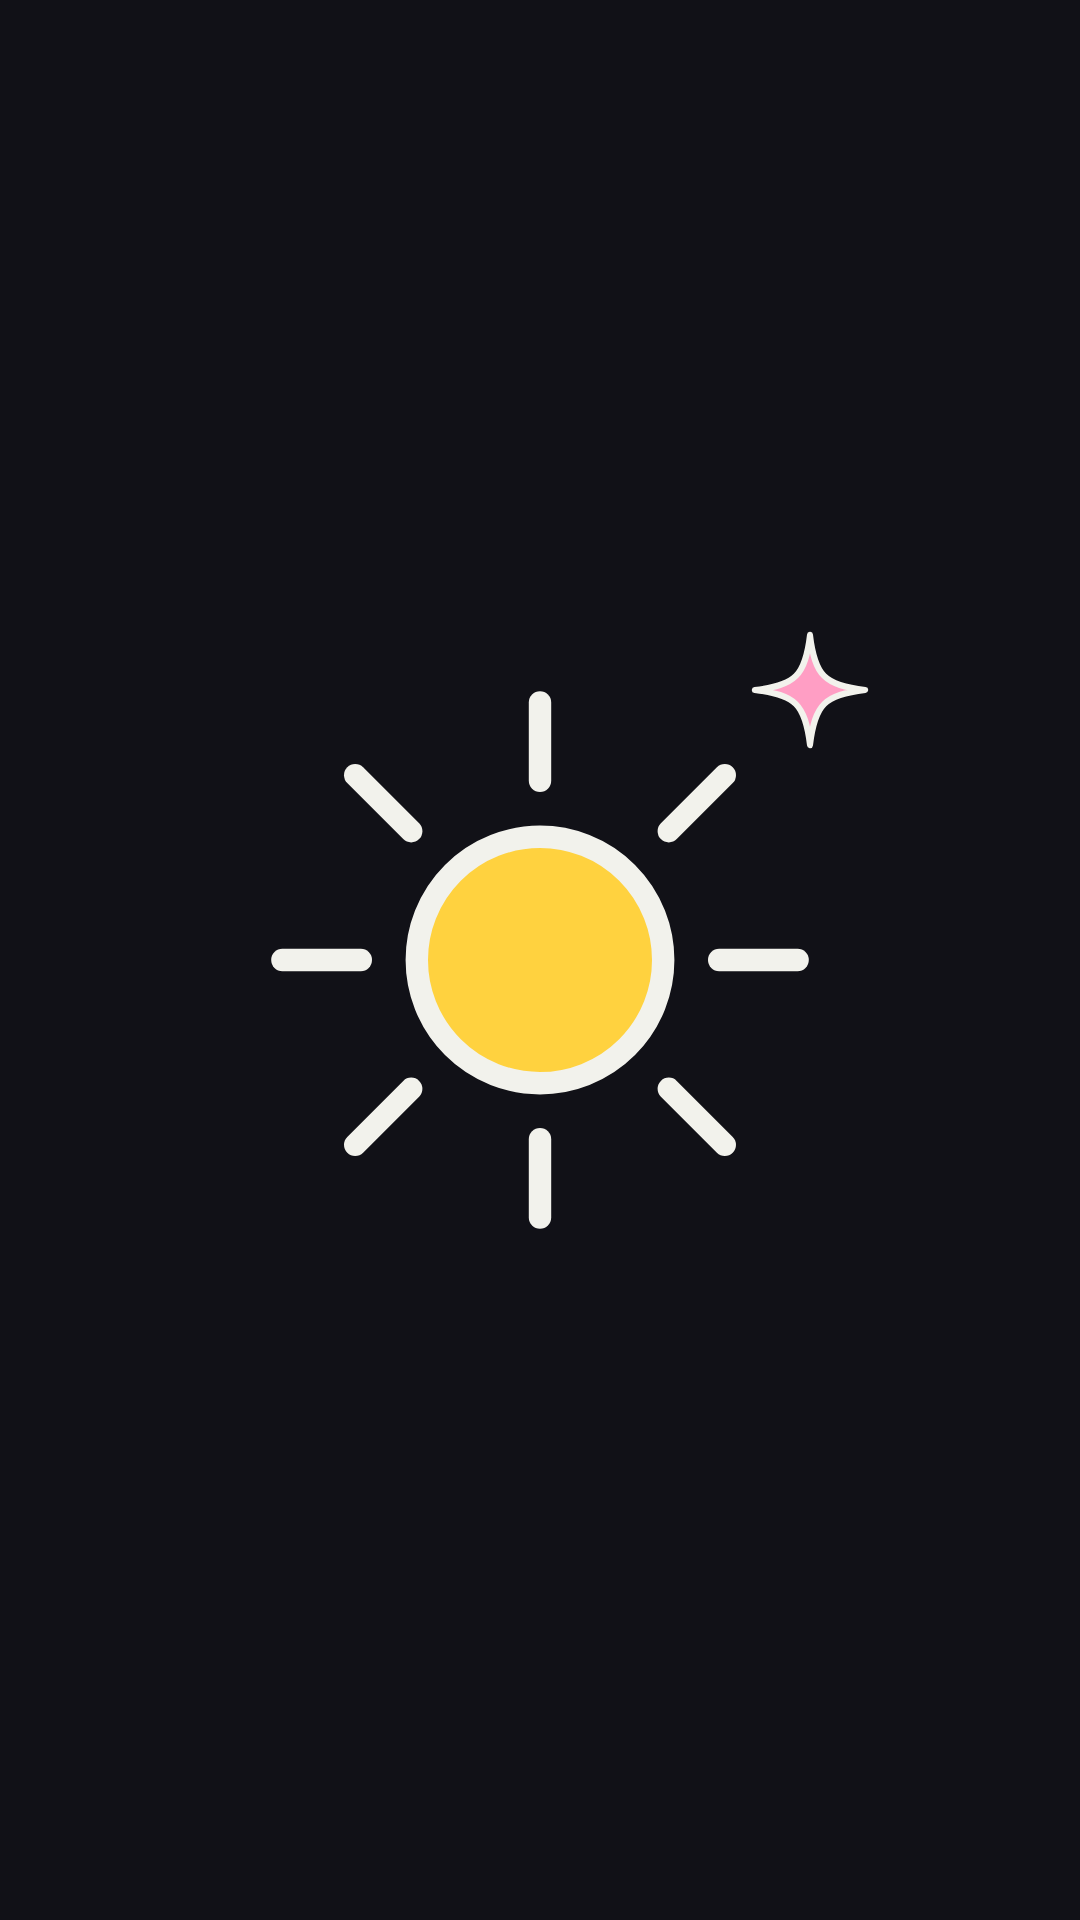
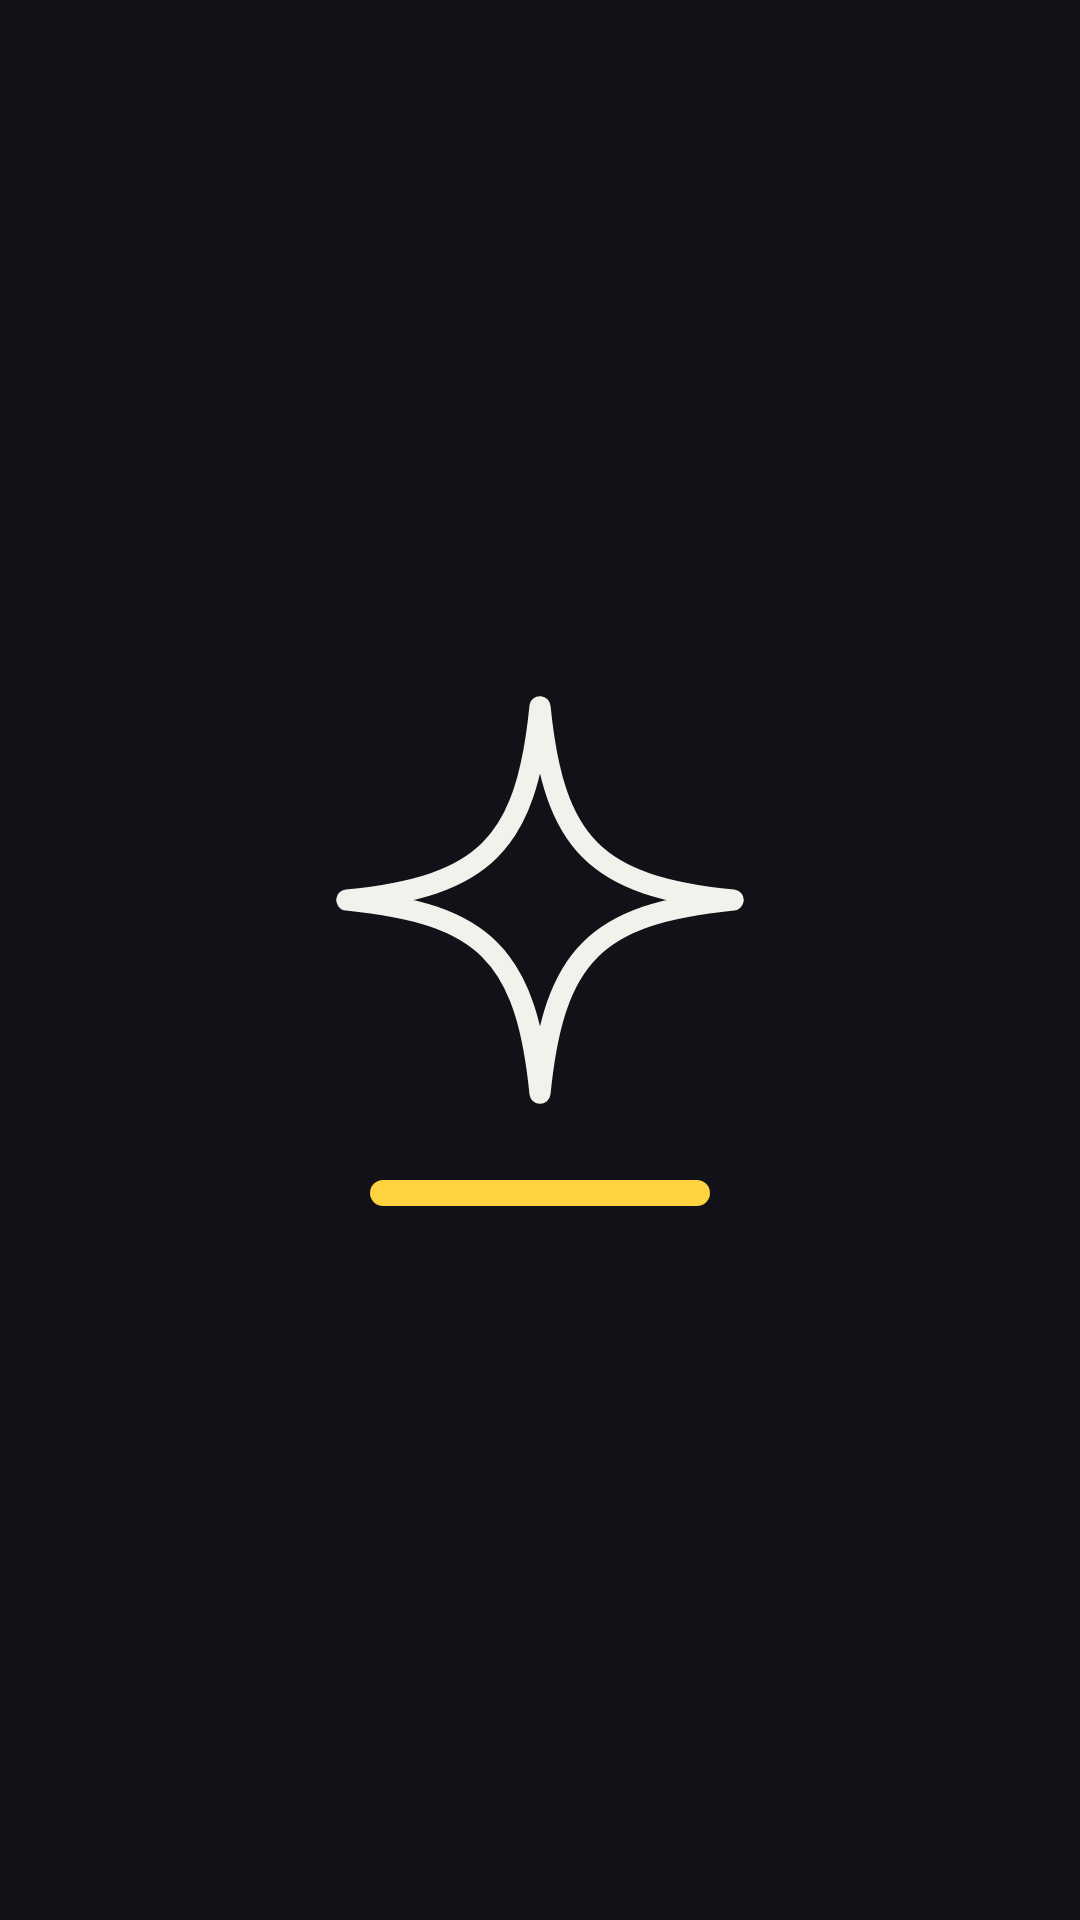
Capas dos destaques mais sóbrias: traço fino e o sublinhado do site
A Lorena achou a primeira versão infantil (adesivos coloridos com
estrelinha). Entre três caminhos, mostrados no tamanho real do perfil, ela
escolheu o desenho de traço fino e claro com o sublinhado amarelo do título
do site embaixo.

Claude-Session: https://claude.ai/code/session_01YXWX7oL9GGizcRcotajMLe

Changed region(s): [[0.2444, 0.375, 0.7333, 0.6562], [0.7028, 0.3125, 0.7944, 0.4062], [0.3056, 0.375, 0.3361, 0.4062]]

diff --git a/sites/instagram/gerar-capas.py b/sites/instagram/gerar-capas.py
@@ -6,64 +6,55 @@ Cada capa é um SVG de 1080x1920, o tamanho do story. Ao escolher a capa de um
 destaque, o Instagram recorta um círculo no meio da imagem com a largura dela,
 então o desenho tem de caber todo no círculo central: nada perto das bordas.
 
-As cores e o contorno claro são os do site com fundo preto (sites/lorenabraganca):
-mexer aqui sem mexer lá deixa o perfil e o site com duas caras.
+O estilo é o "B" que ela escolheu em 25/10, entre três: desenho de traço fino e
+claro, com o sublinhado amarelo do título do site embaixo. A primeira versão,
+de adesivos coloridos com contorno e estrelinha, ela achou infantil. Não volte
+a pôr cor dentro do desenho: o amarelo fica só no sublinhado.
+
+As cores são as do site com fundo preto (sites/lorenabraganca): mexer aqui
+sem mexer lá deixa o perfil e o site com duas caras.
 """
 from pathlib import Path
 
-FUNDO, CREME, SOL, ROSA, AZUL = "#111117", "#F2F2EC", "#FFD23F", "#FF9EC4", "#4F5BFF"
+FUNDO, CREME, SOL = "#111117", "#F2F2EC", "#FFD23F"
 PASTA = Path(__file__).parent / "capas"
 
 
-def estrela(x, y, tam, cor):
-    """A estrelinha de quatro pontas do site, o enfeite que amarra as capas."""
-    s = tam / 100
-    return (f'<path transform="translate({x - 50*s} {y - 50*s}) scale({s})" '
-            f'd="M50 4 C54 38 62 46 96 50 C62 54 54 62 50 96 C46 62 38 54 4 50 C38 46 46 38 50 4Z" '
-            f'fill="{cor}" stroke="{CREME}" stroke-width="5" stroke-linejoin="round"/>')
+def desenho(conteudo, escala=4.6, traco=4.6):
+    """Desenho feito numa grade de 100x100, ampliado e centrado um pouco acima
+    do meio, para o desenho e o sublinhado juntos ficarem no centro do círculo."""
+    return (f'<g transform="translate({540 - 50*escala} {900 - 50*escala}) scale({escala})" '
+            f'fill="none" stroke="{CREME}" stroke-width="{traco}" '
+            f'stroke-linecap="round" stroke-linejoin="round">{conteudo}</g>')
 
 
-def grande(conteudo, escala=5.4):
-    """Desenho feito numa grade de 100x100, ampliado e centrado em (540, 960)."""
-    return (f'<g transform="translate({540 - 50*escala} {960 - 50*escala}) scale({escala})" '
-            f'stroke="{CREME}" stroke-width="4" stroke-linejoin="round" stroke-linecap="round">{conteudo}</g>')
+# o marca-texto do "novidades" do site, largo como o desenho
+SUBLINHADO = f'<rect x="370" y="1180" width="340" height="26" rx="13" fill="{SOL}"/>'
 
 
-def capa(desenho, enfeite):
+def capa(conteudo):
     return (f'<svg xmlns="http://www.w3.org/2000/svg" viewBox="0 0 1080 1920" width="1080" height="1920">'
-            f'<rect width="1080" height="1920" fill="{FUNDO}"/>{desenho}{enfeite}</svg>\n')
+            f'<rect width="1080" height="1920" fill="{FUNDO}"/>{desenho(conteudo)}{SUBLINHADO}</svg>\n')
 
-
-RAIOS = [(50, 4, 50, 18), (50, 82, 50, 96), (4, 50, 18, 50), (82, 50, 96, 50),
-         (17, 17, 27, 27), (73, 73, 83, 83), (83, 17, 73, 27), (27, 73, 17, 83)]
 
 CAPAS = {
-    # coração rosa: o mesmo adesivo do site
-    "1-sobre-mim": capa(
-        grande(f'<path d="M50 88 C20 66 6 50 6 32 C6 18 17 8 30 8 C40 8 46 14 50 22 '
-               f'C54 14 60 8 70 8 C83 8 94 18 94 32 C94 50 80 66 50 88Z" fill="{ROSA}"/>'),
-        estrela(800, 700, 130, SOL)),
-    # o sol do site, que está ao lado da foto na página "em breve"
-    "2-novidades": capa(
-        grande('<g>' + ''.join(f'<line x1="{a}" y1="{b}" x2="{c}" y2="{d}"/>' for a, b, c, d in RAIOS)
-               + f'</g><circle cx="50" cy="50" r="22" fill="{SOL}"/>', 5.6),
-        estrela(810, 690, 120, ROSA)),
-    "3-bastidores": capa(
-        grande(f'<rect x="32" y="17" width="30" height="16" rx="5" fill="{AZUL}"/>'
-               f'<rect x="7" y="27" width="86" height="58" rx="13" fill="{AZUL}"/>'
-               f'<circle cx="50" cy="56" r="18" fill="{SOL}"/>'
-               f'<circle cx="50" cy="56" r="7" fill="{FUNDO}" stroke-width="3"/>'
-               f'<circle cx="79" cy="40" r="4" fill="{CREME}" stroke="none"/>'),
-        estrela(815, 690, 120, ROSA)),
-    "4-contato": capa(
-        grande(f'<path d="M20 12 H80 Q94 12 94 26 V60 Q94 74 80 74 H46 L24 92 L28 74 H20 '
-               f'Q6 74 6 60 V26 Q6 12 20 12 Z" fill="{SOL}"/>'
-               + ''.join(f'<circle cx="{x}" cy="43" r="6" fill="{FUNDO}" stroke="none"/>' for x in (30, 50, 70))),
-        estrela(810, 690, 120, ROSA)),
+    # uma pessoa: cabeça e ombros
+    "1-sobre-mim": capa('<circle cx="50" cy="34" r="15"/>'
+                        '<path d="M20 84 C20 64 33 56 50 56 C67 56 80 64 80 84"/>'),
+    # a estrela de quatro pontas do site, só no contorno
+    "2-novidades": capa('<path d="M50 8 C53 38 62 47 92 50 C62 53 53 62 50 92 '
+                        'C47 62 38 53 8 50 C38 47 47 38 50 8Z"/>'),
+    "3-bastidores": capa('<path d="M36 26 L41 17 H59 L64 26"/>'
+                         '<rect x="8" y="26" width="84" height="56" rx="10"/>'
+                         '<circle cx="50" cy="54" r="16"/>'),
+    "4-contato": capa('<path d="M20 14 H80 Q92 14 92 26 V58 Q92 70 80 70 H46 L28 86 L30 70 H20 '
+                      'Q8 70 8 58 V26 Q8 14 20 14 Z"/>'),
 }
 
 if __name__ == "__main__":
     PASTA.mkdir(exist_ok=True)
+    for velho in PASTA.glob("*"):
+        velho.unlink()
     for nome, svg in CAPAS.items():
         (PASTA / f"{nome}.svg").write_text(svg)
         print(nome)

diff --git a/sites/LEIA-ME.md b/sites/LEIA-ME.md
@@ -70,9 +70,14 @@ Quem refizer: olhe o arquivo gerado antes de commitar.
 
 ## `instagram/` — capas dos destaques do @lolemos
 
-Quatro capas no estilo do site com fundo preto: coração (sobre mim), sol
-(novidades), câmera (bastidores) e balão (contato), cada uma com a
-estrelinha do site. Ficam fora de `lorenabraganca/`, então não vão para o ar.
+Quatro capas com fundo preto, desenho de traço fino e claro e o sublinhado
+amarelo do título do site embaixo: pessoa (sobre mim), estrela de quatro
+pontas (novidades), câmera (bastidores) e balão (contato). Ficam fora de
+`lorenabraganca/`, então não vão para o ar.
+
+**É o estilo "B", escolhido por ela em 25/10 entre três.** A primeira versão,
+de adesivos coloridos com contorno e estrelinha, ela achou infantil. A cor
+fica só no sublinhado; não volte a pôr cor dentro do desenho.
 
 ```bash
 cd /home/user/Nuvem-Lorena/sites/instagram
